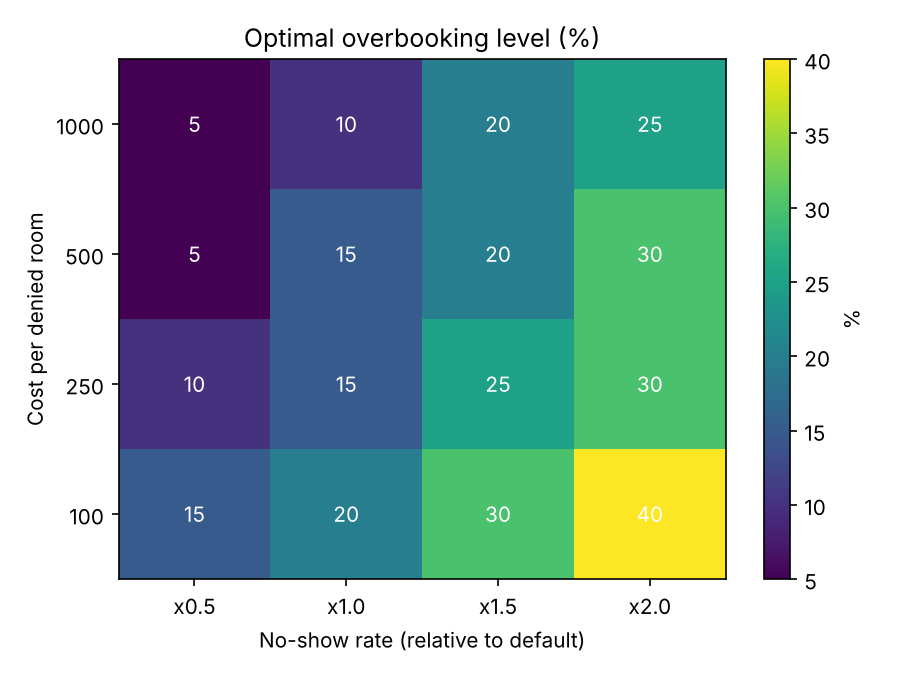
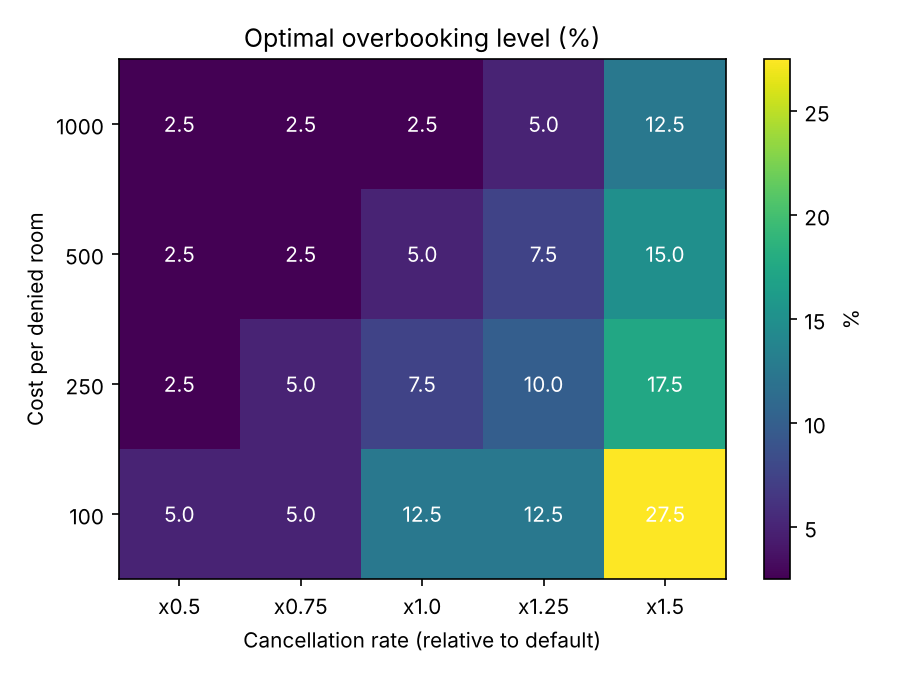
Analysis results with calibrated parameters
Claude-Session: https://claude.ai/code/session_016aWF3wLHbm5U5wZ1P7bM4x

diff --git a/analysis/output/results.md b/analysis/output/results.md
@@ -8,63 +8,76 @@ Simplified case: 1-night stays, single rooms, no cancellations, independent gues
 
 | Bookings | Profit sim | Profit exact | P(denied) sim | P(denied) exact |
 |---:|---:|---:|---:|---:|
-| 100 | 10,802 | 10,800 | 0.000 | 0.000 |
-| 102 | 11,020 | 11,016 | 0.000 | 0.000 |
-| 104 | 11,241 | 11,229 | 0.004 | 0.006 |
-| 106 | 11,430 | 11,425 | 0.049 | 0.040 |
-| 108 | 11,567 | 11,563 | 0.146 | 0.143 |
-| 110 | 11,593 | 11,587 | 0.346 | 0.329 |
-| 112 | 11,473 | 11,463 | 0.556 | 0.554 |
-| 114 | 11,207 | 11,202 | 0.740 | 0.752 |
-| 116 | 10,846 | 10,844 | 0.876 | 0.884 |
-| 118 | 10,422 | 10,431 | 0.955 | 0.954 |
-| 120 | 10,050 | 9,995 | 0.979 | 0.984 |
+| 100 | 10,801 | 10,800 | 0.000 | 0.000 |
+| 102 | 11,019 | 11,016 | 0.001 | 0.000 |
+| 104 | 11,220 | 11,229 | 0.007 | 0.006 |
+| 106 | 11,436 | 11,425 | 0.039 | 0.040 |
+| 108 | 11,570 | 11,563 | 0.146 | 0.143 |
+| 110 | 11,590 | 11,587 | 0.344 | 0.329 |
+| 112 | 11,459 | 11,463 | 0.541 | 0.554 |
+| 114 | 11,214 | 11,202 | 0.753 | 0.752 |
+| 116 | 10,825 | 10,844 | 0.891 | 0.884 |
+| 118 | 10,447 | 10,431 | 0.955 | 0.954 |
+| 120 | 10,000 | 9,995 | 0.986 | 0.984 |
 
-Largest deviation in P(denied): 0.017. Exact optimum: 110 bookings, simulated optimum: 110.
+Largest deviation in P(denied): 0.015. Exact optimum: 110 bookings, simulated optimum: 110.
+
+### Chi-square goodness-of-fit test
+
+H0: the number of arriving guests per night follows Binomial(110, 0.9). Categories with an expected count below 5 are merged; no parameters are estimated, so df = categories - 1.
+
+| Case | Nights | df | Chi-square | p-value | Mean | Variance |
+|---|---:|---:|---:|---:|---:|---:|
+| independent guests | 3000 | 18 | 21.6 | 0.251 | 98.98 | 9.70 |
+| shared no-show shock, CV=0.3 | 3000 | 18 | 2302.5 | < 0.001 | 99.03 | 21.32 |
+
+Binomial mean 99.00, variance 9.90. At the 5% level H0 is not rejected for independent guests and rejected when guests share a no-show shock: correlated no-shows make arrivals more variable than the binomial model assumes.
 
 ## 2. Optimal overbooking level and risk
 
 Full model (default parameters), 20 runs x 180 nights per point, same random numbers for every level (common random numbers).
 
-| Shock CV | Best level | Profit at best | Profit without overbooking | Gain | P(denied) at best | CVaR 5% at best |
+| Shock CV | Best level | Profit at best | Profit without overbooking | Gain per night (paired 95% CI) | P(denied) at best | CVaR 5% at best |
 |---:|---:|---:|---:|---:|---:|---:|
-| 0.0 | 15.0% | 10,910 | 9,963 | +9.5% | 20.1% | 9,308 |
-| 0.3 | 15.0% | 10,882 | 9,971 | +9.1% | 20.8% | 9,252 |
-| 0.6 | 15.0% | 10,799 | 9,982 | +8.2% | 22.9% | 9,094 |
+| 0.0 | 5.0% | 7,236 | 7,187 | +49 ± 8 (+0.7%) | 2.4% | 4,197 |
+| 0.3 | 5.0% | 7,237 | 7,191 | +47 ± 7 (+0.6%) | 2.1% | 4,178 |
+| 0.6 | 7.5% | 7,235 | 7,187 | +47 ± 10 (+0.7%) | 3.2% | 4,167 |
+
+With the observed no-show rate of about 2%, a shared no-show shock hardly changes the result: cancellations, not no-shows, drive overbooking here. The chi-square test above shows that the shock matters when no-shows are frequent (10%). The profit curve is flat between about 5% and 7.5%. The CVaR (mean of the 5% worst nights) hardly depends on overbooking, because the worst nights are low-demand nights in which overbooking plays no role.
 
 ## 3. Textbook formula vs. simulation
 
-A manager using the binomial formula with the observed show-up rate (89.1%) and the average price (116) would accept 110 bookings for 100 rooms, i.e. overbook by **10.0%**.
+A manager using the binomial formula with the observed show-up rate (98.1%) and the average price (99) would accept 101 bookings for 100 rooms, i.e. overbook by **1.0%**.
 
-| Shock CV | Profit at textbook level | Best level (simulation) | Profit at best | Profit lost by using the formula |
+| Shock CV | Profit at textbook level | Best level (simulation) | Profit at best | Profit lost by using the formula (paired 95% CI) |
 |---:|---:|---:|---:|---:|
-| 0.0 | 10,773 | 15.0% | 10,910 | 137 per night |
-| 0.3 | 10,762 | 15.0% | 10,882 | 120 per night |
-| 0.6 | 10,713 | 15.0% | 10,799 | 86 per night |
+| 0.0 | 7,206 | 5.0% | 7,236 | 31 ± 9 per night |
+| 0.3 | 7,208 | 5.0% | 7,237 | 30 ± 7 per night |
+| 0.6 | 7,205 | 7.5% | 7,235 | 30 ± 9 per night |
 
 The formula ignores cancellations, multi-night stays, groups and correlated no-shows, which is why its recommendation differs from the simulated optimum.
 
 ## 4. Sensitivity of the optimal overbooking level
 
-Grid search over levels 0-40% in 5% steps, 6 runs per point.
+Grid search over levels 0-30% in 2.5% steps, 6 runs per point. The cancellation rate is varied because it drives overbooking far more than the no-show rate (~2% in the data). Booking requests are scaled so that the number of non-cancelled bookings stays the same.
 
-| Denied cost \ no-show factor | x0.5 | x1.0 | x1.5 | x2.0 |
-|---:|---:|---:|---:|---:|
-| 100 | 15% | 20% | 30% | 40% |
-| 250 | 10% | 15% | 25% | 30% |
-| 500 | 5% | 15% | 20% | 30% |
-| 1000 | 5% | 10% | 20% | 25% |
+| Denied cost \ cancellation factor | x0.5 | x0.75 | x1.0 | x1.25 | x1.5 |
+|---:|---:|---:|---:|---:|---:|
+| 100 | 5.0% | 5.0% | 12.5% | 12.5% | 27.5% |
+| 250 | 2.5% | 5.0% | 7.5% | 10.0% | 17.5% |
+| 500 | 2.5% | 2.5% | 5.0% | 7.5% | 15.0% |
+| 1000 | 2.5% | 2.5% | 2.5% | 5.0% | 12.5% |
 
-More no-shows push the optimal level up, higher compensation costs push it down.
+More cancellations push the optimal level up, higher compensation costs push it down.
 
 ## 5. Convergence
 
 | Runs | Mean profit | 95% CI half-width |
 |---:|---:|---:|
-| 5 | 10,926 | ±57 |
-| 10 | 10,913 | ±30 |
-| 20 | 10,910 | ±25 |
-| 40 | 10,922 | ±17 |
+| 5 | 7,229 | ±90 |
+| 10 | 7,264 | ±62 |
+| 20 | 7,236 | ±43 |
+| 40 | 7,257 | ±34 |
 
 The half-width shrinks roughly with 1/sqrt(runs).
 
